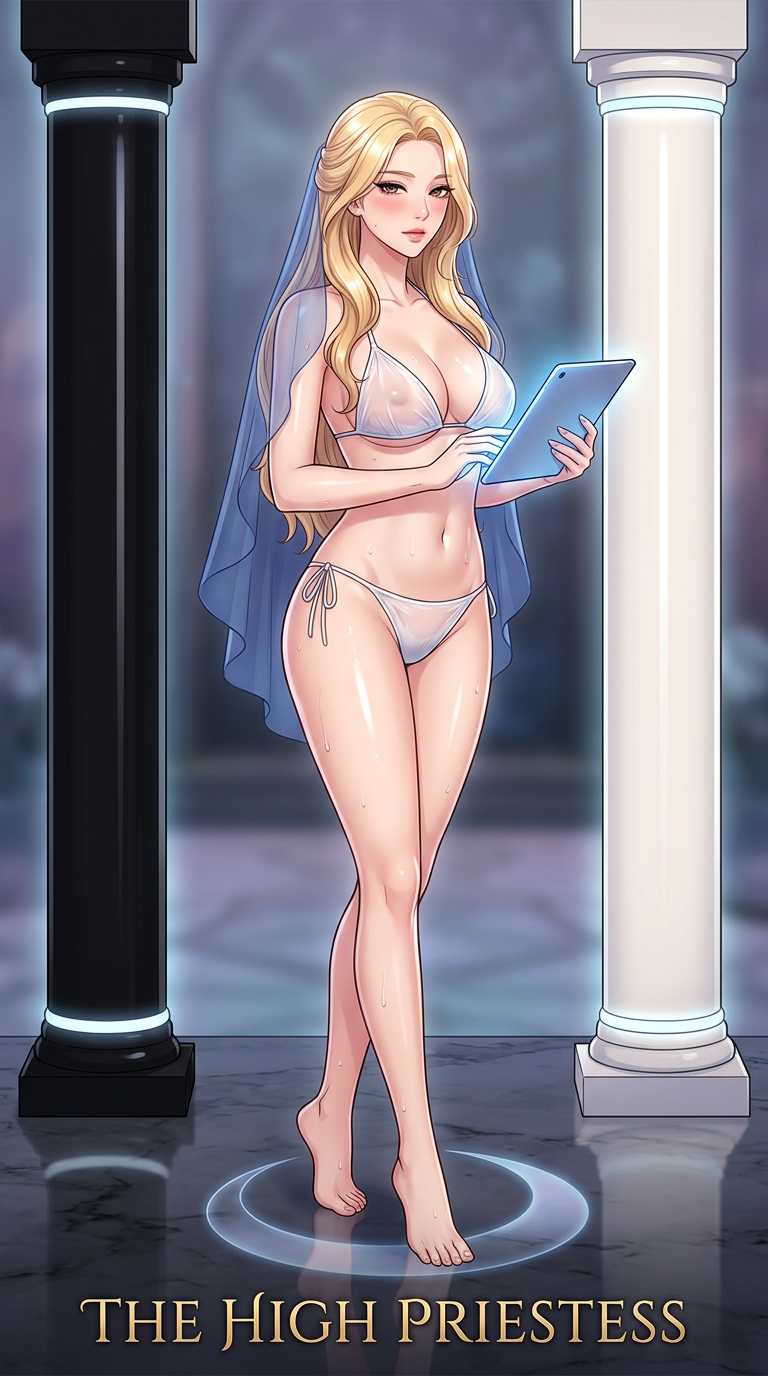
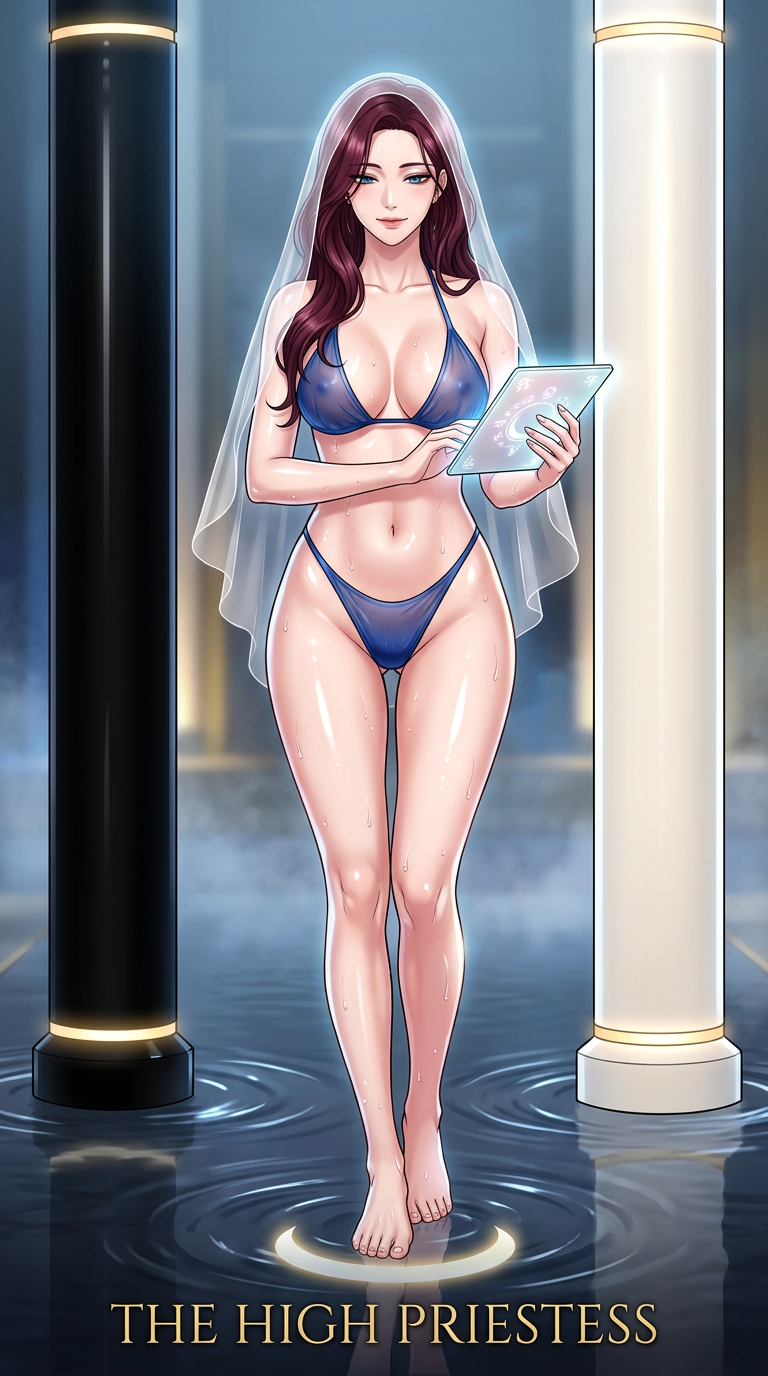
Update all 78 Tarot cards with unique hairstyles, hair colors, eye colors, expressions, and custom bikini palettes

diff --git a/update_unique_characters.py b/update_unique_characters.py
@@ -1,0 +1,259 @@
+import json
+
+with open('cards.json', 'r', encoding='utf-8') as f:
+    cards_data = json.load(f)
+
+# Design palette and styling variations for suits and individual cards
+suit_styles = {
+    "major": {
+        "00-fool": {
+            "hair": "sun-kissed honey-blonde wavy twintails with playful loose strands",
+            "eyes": "sparkling emerald green doe eyes, cheerful blushing face",
+            "expression": "bright flirtatious smile, playful wink, glowing cheeks",
+            "bikini_color": "sheer pastel peach translucent chiffon",
+            "bikini_style": "ruffled micro-string triangle bikini with side-tie strings",
+            "theme": "sunrise luxury penthouse infinity pool with floating petals"
+        },
+        "01-magician": {
+            "hair": "sleek waist-length raven-black straight hair with straight bangs",
+            "eyes": "mystic amethyst-violet cat eyes, sharp winged eyeliner",
+            "expression": "smug confident smirk, intense penetrating gaze",
+            "bikini_color": "sheer crimson-red translucent wet chiffon",
+            "bikini_style": "cross-wrap halter micro-bikini with gold ring accents",
+            "theme": "misty ambient penthouse studio with four glowing holographic elemental relics"
+        },
+        "02-priestess": {
+            "hair": "deep auburn-burgundy silky hair in loose elegant cascades",
+            "eyes": "mysterious sea-blue heavy-lidded eyes, calm allure",
+            "expression": "serene enigmatic half-smile, thoughtful and alluring",
+            "bikini_color": "sheer deep sapphire-blue translucent chiffon",
+            "bikini_style": "minimalist plunging triangle bikini with silver micro-chains",
+            "theme": "monochrome marble bath between obsidian and ivory illuminated pillars"
+        },
+        "03-empress": {
+            "hair": "voluminous ripe-wheat golden blonde cascading curls",
+            "eyes": "warm honey-amber almond eyes, radiant feminine warmth",
+            "expression": "luxurious sensual smile, soft parted lips, flushed cheeks",
+            "bikini_color": "sheer rose-pink translucent wet chiffon",
+            "bikini_style": "scalloped micro-bikini with pearl-string waist accents",
+            "theme": "lush sunlit greenhouse spa pool with tropical flowers and waterfalls"
+        },
+        "04-emperor": {
+            "hair": "sleek dark chocolate-brown high ponytail with gold hairband",
+            "eyes": "piercing storm-grey almond eyes, sharp cat-eye look",
+            "expression": "commanding dominant smirk, haughty gaze",
+            "bikini_color": "sheer scarlet-crimson translucent chiffon",
+            "bikini_style": "high-cut strappy micro-bikini with golden buckle details",
+            "theme": "luxury volcanic-rock sauna spa with glowing amber embers"
+        },
+        "05-hierophant": {
+            "hair": "silky espresso-brown wavy bob haircut framing delicate jawline",
+            "eyes": "golden-hazel upturned eyes, disciplined yet seductive",
+            "expression": "composed graceful smile, dignified allure",
+            "bikini_color": "sheer ivory-gold translucent chiffon",
+            "bikini_style": "halter-neck micro-string bikini with sacred geometric lace trim",
+            "theme": "cathedral-inspired modern glass bath with stained glass reflections"
+        },
+        "06-lovers": {
+            "hair": "soft strawberry-blonde loose beach waves over shoulders",
+            "eyes": "dreamy lavender-pink doe eyes, flushed rosy cheeks",
+            "expression": "lovestruck passionate expression, softly parted lips",
+            "bikini_color": "sheer blush-pink translucent wet chiffon",
+            "bikini_style": "sweetheart micro-string bikini with delicate floral lace edge",
+            "theme": "romantic rose-water infinity jacuzzi under starry twilight"
+        },
+        "07-chariot": {
+            "hair": "jet-black sporty high ponytail with loose side bangs",
+            "eyes": "blazing electric-blue fierce eyes, determined and bold",
+            "expression": "confident triumphant smirk, fearless direct gaze",
+            "bikini_color": "sheer midnight-navy translucent chiffon with silver sheen",
+            "bikini_style": "athletic crisscross strappy micro-bikini with side ties",
+            "theme": "modern glass hydro-chamber with glowing blue and white neon tracks"
+        },
+        "08-strength": {
+            "hair": "burnished copper-red thick wild waves flowing past waist",
+            "eyes": "warm tiger-amber feline eyes, gentle yet fierce",
+            "expression": "tender dominant smile, relaxed confident aura",
+            "bikini_color": "sheer golden-yellow translucent wet chiffon",
+            "bikini_style": "minimalist sliding micro-triangle bikini with gold cord ties",
+            "theme": "golden-hour open-air bath with golden lion sculpture fountain"
+        },
+        "09-hermit": {
+            "hair": "ethereal icy platinum-silver sleek long hair",
+            "eyes": "crystal-grey introspective eyes, calm deep wisdom",
+            "expression": "mysterious quiet gaze, subtle alluring smile",
+            "bikini_color": "sheer smoky-silver translucent chiffon",
+            "bikini_style": "delicate micro-bandeau string bikini with frosted accents",
+            "theme": "private panoramic snow-view glass onsen with glowing warm lantern"
+        },
+        "10-wheel": {
+            "hair": "multi-tone caramel-gold highlighted wavy locks",
+            "eyes": "mesmerizing golden-green hazel eyes, sparkling with fate",
+            "expression": "playful unpredictable smirk, teasing gaze",
+            "bikini_color": "sheer holographic iridescent translucent chiffon",
+            "bikini_style": "asymmetrical micro-string bikini with metallic sheen",
+            "theme": "futuristic rotunda pool with rotating holographic constellation wheel"
+        },
+        "11-justice": {
+            "hair": "flawless platinum-blonde straight blunt cut",
+            "eyes": "sharp steel-blue discerning eyes, piercing and cold",
+            "expression": "cool intellectual smirk, perfectly balanced poise",
+            "bikini_color": "sheer emerald-green translucent wet chiffon",
+            "bikini_style": "clean geometric micro-triangle bikini with gold ring connectors",
+            "theme": "minimalist high-tech glass bath with floating laser-scale lights"
+        },
+        "12-hanged": {
+            "hair": "light ash-blonde flowing hair floating upward around head",
+            "eyes": "dreamy sky-blue upside-down gaze, euphoric trance",
+            "expression": "blissful surrendered smile, completely relaxed",
+            "bikini_color": "sheer seafoam-mint translucent chiffon",
+            "bikini_style": "wraparound micro-string bikini with suspended sheer ribbons",
+            "theme": "underwater zero-gravity glass flotation tank with glowing cyan aura"
+        },
+        "13-death": {
+            "hair": "striking jet-black hair with pure white side-streaks",
+            "eyes": "deep onyx-black eyes with obsidian reflections, intense gothic beauty",
+            "expression": "captivating mysterious smirk, dangerous fatal allure",
+            "bikini_color": "sheer gothic-black translucent wet chiffon",
+            "bikini_style": "extreme micro-string triangle bikini with black lace filigree",
+            "theme": "dark obsidian bath with floating white mystic roses and sunrise mist"
+        },
+        "14-temperance": {
+            "hair": "soft coral-pink wavy hair gently drifting in breeze",
+            "eyes": "serene turquoise-blue eyes, harmonious and gentle",
+            "expression": "pure tranquil smile, soothing peaceful aura",
+            "bikini_color": "sheer gradient lavender-to-peach translucent chiffon",
+            "bikini_style": "two-tone micro-chiffon bikini with floating water-drop beads",
+            "theme": "tranquil indoor waterfall stream with dual crystal pouring pools"
+        },
+        "15-devil": {
+            "hair": "vibrant crimson-ruby long wavy hair with dark undertones",
+            "eyes": "smoldering fiery ruby-red cat eyes, hypnotic and dangerous",
+            "expression": "devilish seductive grin, biting lower lip playfully",
+            "bikini_color": "sheer midnight-black and crimson translucent chiffon",
+            "bikini_style": "daring cut-out micro-string bikini with red metal rings",
+            "theme": "dark luxury red-neon spa with floating golden chains and glowing embers"
+        },
+        "16-tower": {
+            "hair": "wild dynamic platinum-gold wind-blown hair",
+            "eyes": "electrifying topaz-gold wide eyes, adrenaline rush",
+            "expression": "thrilled ecstatic gasp, wild untamed excitement",
+            "bikini_color": "sheer electric-orange and gold translucent chiffon",
+            "bikini_style": "strappy high-leg micro-bikini with lightning-inspired lines",
+            "theme": "penthouse infinity pool during dramatic neon thunderstorm"
+        },
+        "17-the-star": {
+            "hair": "shimmering platinum-golden long hair cascading to lower back",
+            "eyes": "star-bright radiant blue almond eyes, crystalline clarity",
+            "expression": "angelic seductive smile, serene hopeful gaze",
+            "bikini_color": "sheer pure white translucent wet chiffon",
+            "bikini_style": "classic micro-triangle string bikini hugging every curve",
+            "theme": "nighttime rooftop infinity pool overlooking city skyline beneath giant star"
+        },
+        "18-moon": {
+            "hair": "honey-blonde wet hair framing cheeks, dripping water",
+            "eyes": "alluring hazel-grey hooded eyes, flushed rosy cheeks",
+            "expression": "intoxicated sultry half-smile, parted lips, heavy gaze",
+            "bikini_color": "sheer lilac-purple translucent wet chiffon",
+            "bikini_style": "delicate low-rise string micro-bikini with side ties",
+            "theme": "luxury glass rain-shower with neon purple lighting and moon phases"
+        },
+        "19-sun": {
+            "hair": "radiant sunburst golden-yellow voluminous flowing locks",
+            "eyes": "warm sparkling amber-brown doe eyes, overflowing vitality",
+            "expression": "ecstatic beaming smile, radiant joyful sensuality",
+            "bikini_color": "sheer bright marigold-gold translucent wet chiffon",
+            "bikini_style": "sunny micro-bikini with tiny golden sunflower charm at center",
+            "theme": "sun-drenched poolside terrace bathed in brilliant golden sunbeams"
+        },
+        "20-judgement": {
+            "hair": "silvery-white long hair floating like a cloud of silk",
+            "eyes": "luminescent golden-hazel wide eyes, profound awakening",
+            "expression": "reborn ecstatic expression, head tilted up toward light",
+            "bikini_color": "sheer pearlescent white translucent chiffon",
+            "bikini_style": "ethereal micro-string bikini with pearl-drop connectors",
+            "theme": "illuminated crystal bath rising with golden mist and heavenly rays"
+        },
+        "21-world": {
+            "hair": "luxurious chestnut-brown hair woven with golden threads",
+            "eyes": "kaleidoscopic multi-faceted emerald-gold eyes, ultimate perfection",
+            "expression": "triumphant goddess-like smile, supreme confidence",
+            "bikini_color": "sheer emerald-and-gold translucent wet chiffon",
+            "bikini_style": "regal micro-bikini with delicate golden filigree chain trims",
+            "theme": "panoramic 360-degree glass penthouse rotunda pool with RGB ring light"
+        }
+    },
+    "wands": {
+        "color": "sheer fiery-orange / flame-red / warm amber translucent chiffon",
+        "style": "sporty cross-tie micro-string bikinis with fiery accents",
+        "hair_theme": "auburn, copper-red, chestnut, and warm golden tones"
+    },
+    "cups": {
+        "color": "sheer ocean-cyan / aqua-blue / lagoon-teal translucent chiffon",
+        "style": "graceful scalloped and ruffled micro-string bikinis with water-drop charms",
+        "hair_theme": "silky black, deep brunette, and soft flowing wavy locks"
+    },
+    "swords": {
+        "color": "sheer icy-silver / crystal-cyan / steel-blue translucent chiffon",
+        "style": "sleek geometric sharp-cut micro-string bikinis with metallic ring connectors",
+        "hair_theme": "platinum-blonde, ash-grey, and razor-sharp sleek straight styles"
+    },
+    "pentacles": {
+        "color": "sheer emerald-green / olive-gold / champagne-bronze translucent chiffon",
+        "style": "luxurious low-rise micro-string bikinis with golden chain links and coin charms",
+        "hair_theme": "rich honey-brown, chocolate, and golden-bronze braided styles"
+    }
+}
+
+# Update all 78 cards in cards_data
+for c in cards_data['cards']:
+    slug = c['slug']
+    group = c['group']
+    title = c['title']
+    
+    # Determine custom style for card
+    if group == 'major' and slug in suit_styles['major']:
+        custom = suit_styles['major'][slug]
+        hair_desc = custom['hair']
+        eyes_desc = custom['eyes']
+        expr_desc = custom['expression']
+        bikini_color = custom['bikini_color']
+        bikini_style = custom['bikini_style']
+        scene_theme = custom['theme']
+    else:
+        # Minor arcana styling based on suit
+        suit_info = suit_styles.get(group, suit_styles['wands'])
+        bikini_color = suit_info['color']
+        bikini_style = suit_info['style']
+        hair_desc = c.get('hair') or f"stylish {suit_info['hair_theme']}"
+        eyes_desc = c.get('eyes') or "alluring cat eyes, winged eyeliner"
+        expr_desc = "seductive charming smile, blushing rosy cheeks, parted lips"
+        scene_theme = c.get('scene')
+    
+    # Save attributes into card object
+    c['hair_style'] = hair_desc
+    c['eyes_style'] = eyes_desc
+    c['expression_style'] = expr_desc
+    c['bikini_color'] = bikini_color
+    c['bikini_style'] = bikini_style
+    
+    # Construct exact frameless prompt
+    c['master_prompt'] = f"""A vertical Korean adult webtoon illustration in manhwa art style matching Capture3.PNG.
+COMPLETELY FRAMELESS: no decorative borders, no card frames, no banner ribbon, edge-to-edge illustration. Only the clean title text '{title}' in elegant antique gold lettering centered at the bottom (NO numbers, NO Roman numerals).
+
+Character & Face: An alluring, voluptuous young woman ({c.get('age', '20 years old')}), {c.get('build', 'slender waist with curvy feminine silhouette')}, with {hair_desc}, {eyes_desc}, {expr_desc}, and glowing porcelain skin with glossy specular highlights and water droplets.
+Outfit: Wearing a form-fitting wet {bikini_color} {bikini_style} hugging her figure tightly, emphasizing bust contours, narrow waist, and rosy glowing skin highlights through the wet translucent fabric, barefoot with completely bare feet and legs.
+
+Scene & Atmosphere: {scene_theme}.
+Tarot Symbolism: {c['emblem']} integrated naturally into the modern luxury environment with glowing ambient lighting.
+{c['count_lock']}
+
+High-gloss specular wet skin highlights, crisp webtoon lineart, cinematic ambient lighting, masterpiece manhwa illustration.
+
+NEGATIVE: numbers, roman numerals, borders, frames, banner, ribbon, margin, outer box, shoes, boots, sandals, socks, heavy clothes, casual street clothes, deformed hands, extra limbs, bad anatomy, low quality, watermark, signature."""
+
+# Save updated cards.json
+with open('cards.json', 'w', encoding='utf-8') as f:
+    json.dump(cards_data, f, ensure_ascii=False, indent=2)
+
+print("Updated cards.json with unique character faces, hair colors, hairstyles, and bikini palettes for all 78 cards!")
